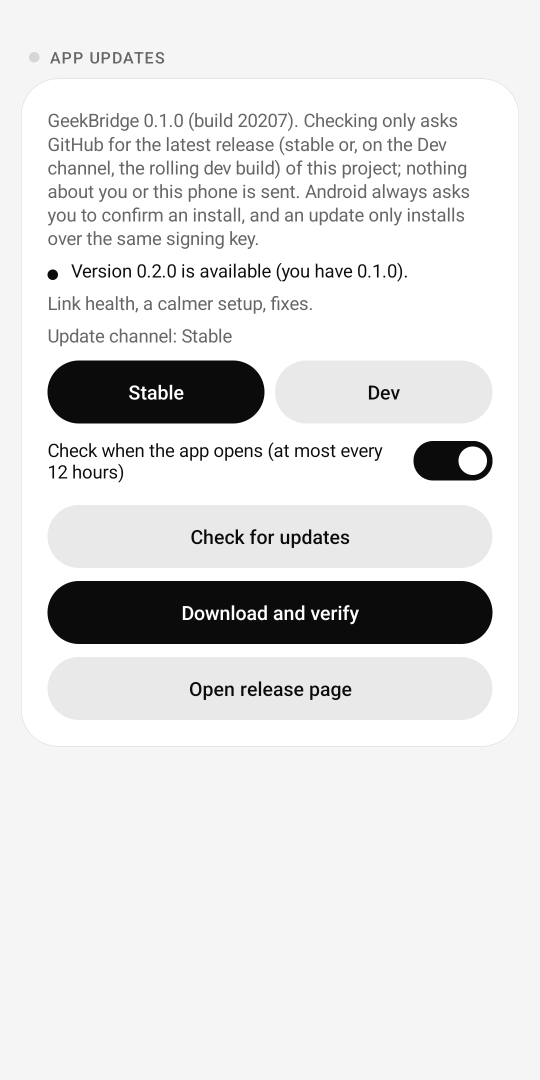
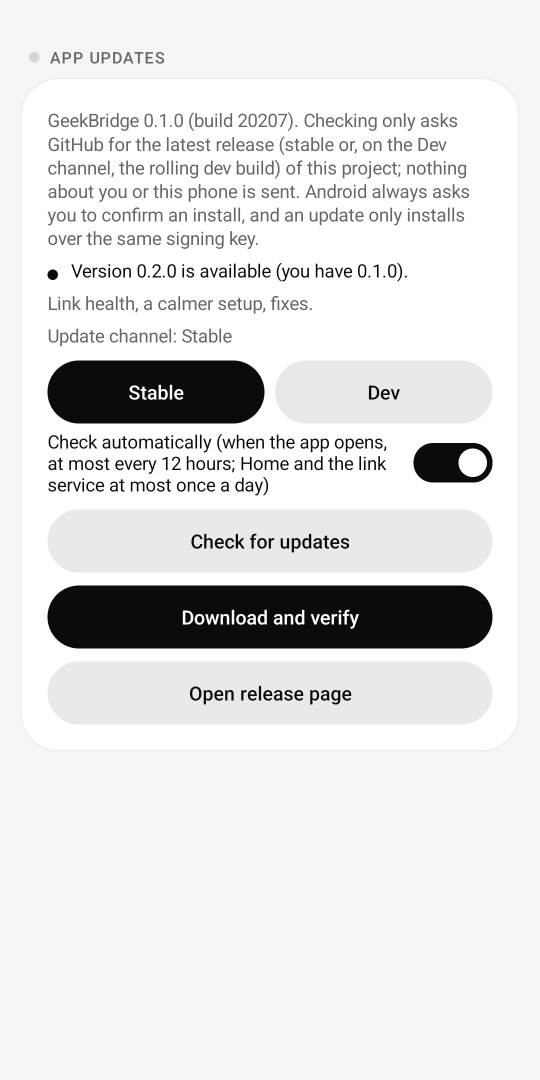
Android goldens: regenerate the 28 screens that changed on purpose (Linked wording, auto-check label, update card, core info); golden-android.sh pins the build number (versionCode 20207), re-pins the date, hides ANR dialogs, runs the emulator in a systemd unit with ANDROID_TMP in scratch, retries a 

Changed region(s): [[0.0889, 0.4889, 0.9185, 0.6722], [0.0889, 0.3972, 0.7111, 0.4583], [0.8296, 0.3972, 0.9185, 0.4583]]

diff --git a/docs/golden-images.md b/docs/golden-images.md
@@ -45,6 +45,12 @@ which allows `adb root`), 1080x2400, density 420, locale en-US, software GPU (`-
 default). The default is the project AVD `gbnothing` (`scripts/bootstrap-android.sh`); to make your own:
 `avdmanager create avd -n gbgolden -k "system-images;android-36;google_apis;x86_64" -d pixel_6` then set
 `hw.lcd.density=420`, `hw.lcd.width=1080`, `hw.lcd.height=2400` in its `config.ini`, and run with `GOLDEN_AVD=gbgolden`.
+The Updates card prints "build <versionCode>" and a debug build's code is 20000 + the commit count, so the check pins it: unless the APK
+already has `GOLDEN_VERSION_CODE` (default 20207) it builds one from the same sources with `-Pgb.commitCount=207` (needs the native libraries
+from `scripts/build-android.sh`; not done when `GOLDEN_APK` is given). The emulator runs in a transient systemd user unit (the host's port probe
+of its modem port crashes it otherwise) with its temp files in the private scratch (`ANDROID_TMP`; the default `/tmp/android-$USER` fills a small
+tmpfs and the device goes offline). The whole check takes 40 to 60 minutes on a busy machine (`GOLDEN_TIMEOUT`, default 3600 s).
+
 A different image, density or GPU renders text a few pixels differently, so the goldens are only valid on that setup.
 
 Photo previews (`share-photos*`) are gradients and edges that the 256-colour reducer and the comparer's palette mapping
@@ -55,9 +61,9 @@ change moves far more than that.
 
 Both scripts pick every port at run time (control, API, discovery, mock release server, adb server, emulator console), give
 each capture worker its own Xvfb (`-displayfd`, no display numbers), fail at once with the helper's log tail if a helper
-process dies, and are bounded by `GOLDEN_TIMEOUT` seconds (desktop 240, Android 600) with the whole process group killed on
+process dies, and are bounded by `GOLDEN_TIMEOUT` seconds (desktop 240, Android 3600) with the whole process group killed on
 expiry. Scratch files live in `~/.cache/gb-golden` (`GOLDEN_SCRATCH`). The desktop check takes about two minutes
-(`GOLDEN_JOBS` workers, default min(8, cores)); the Android check about three, most of it emulator boot. In `--check` a
+(`GOLDEN_JOBS` workers, default min(8, cores)); the Android check 40 to 60 minutes (about 190 screenshots). In `--check` a
 desktop screen that differs is captured again (up to 3 tries): a startup race on a loaded machine passes, a real regression
 differs every time. Other pins: the call timer (`GEEKBRIDGE_FIXED_CALL_SECONDS=83`), `HOME=/tmp/gb-golden-home` (the share
 window prints its save folder), and the order of the captures (Home before Messages is opened, which marks conversations read).
